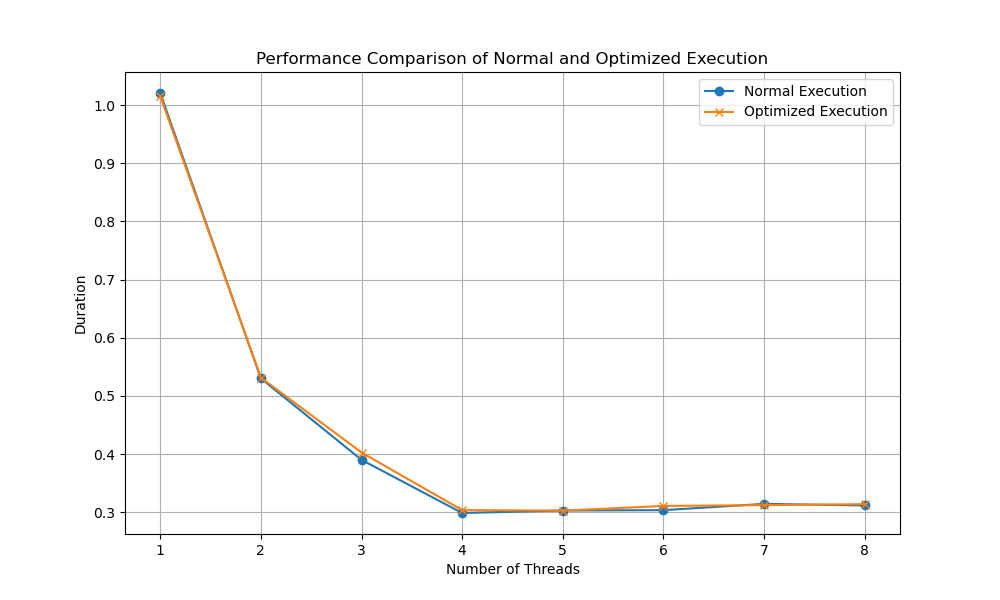
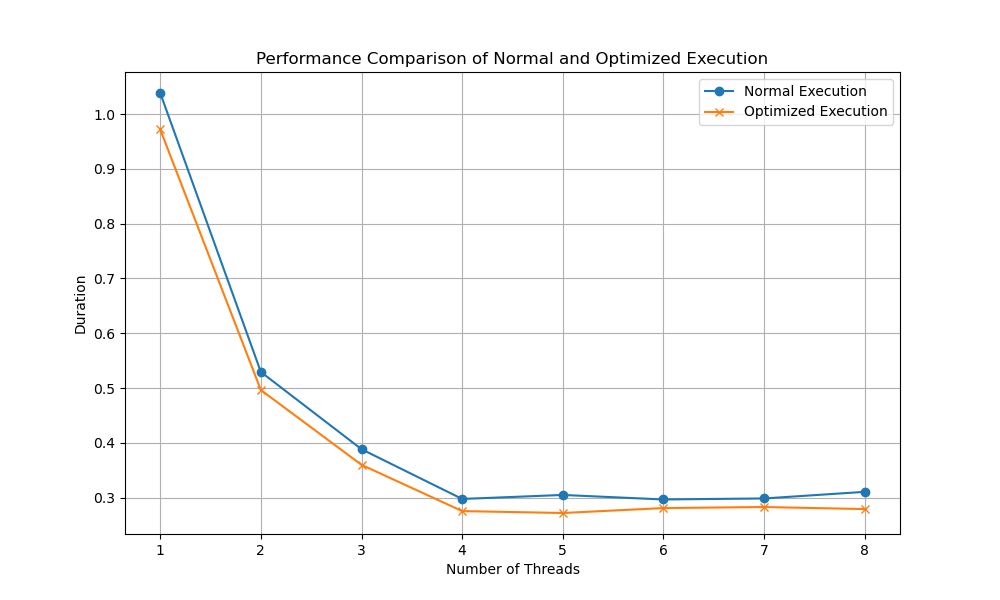
add optimization on the serial threshold of quicksort

diff --git a/src/main/quicksort.c b/src/main/quicksort.c
@@ -11,6 +11,10 @@
 #define RUNTIME_BENCHMARK_FILE "benchmark/runtime.txt"
 #define RUNTIME_OPTIMIZED_BENCHMARK_FILE "benchmark/runtime_optimized.txt"
 
+#define NORMAL_QUICKSORT_THRESHOLD 128
+#define OPTIMIZED_QUICKSORT_THRESHOLD 1024
+#define DEFAULT_SIZE_ARRAY 10 * 1024 * 1024
+
 int partition(int *a, int lo, int hi)
 {
     int pivot = a[lo];
@@ -87,7 +91,8 @@ void quicksort(void *closure, struct scheduler *s)
         return;
     }
 
-    if (hi - lo <= 128)
+    int threshold = optimize_ws ? OPTIMIZED_QUICKSORT_THRESHOLD : NORMAL_QUICKSORT_THRESHOLD;
+    if (hi - lo <= threshold)
     {
         quicksort_serial(a, lo, hi);
         return;
@@ -106,7 +111,7 @@ int main(int argc, char **argv)
     struct timespec begin, end;
     double delay;
     int rc;
-    int n = 10 * 1024 * 1024;
+    int n = DEFAULT_SIZE_ARRAY;
     int nthreads = -1;
     int serial = 0;
 
